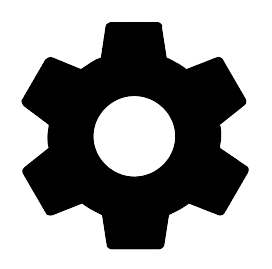
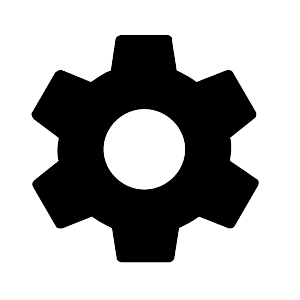
Header for desktop - finished

diff --git a/styles.css b/styles.css
@@ -111,25 +111,6 @@ img {
   width: 1px;
 }
 
-/**************************** SMALL WINDOW ****************************/
-@media screen and (max-width: 899px) {
-
-  /** Fótur **/
-  
-  .footer .content {
-    padding-top: var(--footer-spacing);
-    padding-bottom: var(--spacing);
-    display: flex;
-    flex-wrap: wrap; 
-  }
-
-  .footer .disclaimer {
-    border-top: var(--border-small) solid var(--color-light-brown);
-    max-width: 100%;
-    margin: 0 auto;
-  }
-}
-  
 /* Takki */
 
 /* .button {
@@ -228,45 +209,60 @@ img {
 
 .navigation {
   display: flex;
-  justify-content: center;
+  justify-content: space-between;
   align-items: center;
-  padding: var(--spacing);
   width: 100%;
-}
-
-.navigation .cog-image {
-  justify-content: left;
-  background-image: url('Myndir/cog.png');
-  width: 30px !important;
-  height: 30px !important;
-  background-size: contain;
+  padding: 0.5em;
 }
 
 .navigation ul {
   display: flex;
-  justify-content: center;
+  justify-content: space-around;
   align-items: center;
-  gap: var(--spacing);
-  padding-left: var(--spacing);
-  padding-right: var(--spacing);
+  white-space: nowrap;
   width: 100%;
+  padding-left: 10%;
+  padding-right: 5%;
   max-width: var(--width-offset);
   list-style: none;
 }
 
-.navigation .taeknibudin {
-  /* margin-right: auto; */
-  font-size: 1.8em;
-  padding-left: 0.3em;
-  list-style: none;
+.navigation .cog-image {
+  background-image: url('Myndir/cog.png');
+  background-repeat: no-repeat;
+  width: 40px !important;
+  height: 40px !important;
+  background-size: contain;
 }
 
 .navigation .cart-image {
-  justify-content: right;
   background-image: url('Myndir/cart.png');
-  width: 30px !important;
-  height: 30px !important;
+  background-repeat: no-repeat;
+  width: 40px !important;
+  height: 40px !important;
   background-size: contain;
+  margin-right: 0;
+}
+
+.navigation ul a {
+  text-decoration: none;
+}
+
+.navigation .taeknibudin {
+  margin-right: auto;
+  font-size: 2em;
+  margin-left: 0.3em;
+  list-style: none;
+}
+
+.taeknibudin a {
+  text-decoration: none !important;
+}
+
+input {
+  height: 2.2em;
+  width: 50%;
+  box-sizing: border-box;
 }
 
 /** Meginmál **/
@@ -288,7 +284,26 @@ img {
   color: var(--color-white);
 }
 
+/* SMALL SCREEN FOOTER */
+@media screen and (max-width: 899px) {
+  
+  .footer .content {
+    padding-top: var(--footer-spacing);
+    padding-bottom: var(--spacing);
+    display: flex;
+    flex-wrap: wrap; 
+  }
+
+  .footer .disclaimer {
+    border-top: var(--border-small) solid var(--color-light-brown);
+    max-width: 100%;
+    margin: 0 auto;
+  }
+}
+
+/* LARGE SCREEN FOOTER */
 @media screen and (min-width: 900px) {
+  
   .footer .content {
     padding-top: var(--footer-spacing);
     padding-bottom: var(--spacing);

diff --git a/index.html b/index.html
@@ -17,15 +17,14 @@
             <div class="header-image-opacity">
                 <nav class="navigation">
                     <div class="cog-image"></div>
+                    <div class="taeknibudin"><a href="../index.html"><strong>Tæknibúðin</strong></a></div>
                     <ul>
-                        <li class="taeknibudin"><strong>Tæknibúðin</strong></li>
-                        <li><input type="text" placeholder="Leit eftir heiti, vörunúmeri, lýsingu o.fl."></li>
-                        <li><a href="index.html">Nýjar Vörur</a></li>
-                        <li><a href="sidur/vara.html">Tilboðs vörur</a></li>
-                        <li><a href="sidur/vorulisti.html">Allar Vörur</a></li>
-                        <li><a href="sidur/pontun.html">cart</a></li>
+                        <input type="text" placeholder="Leit eftir heiti, vörunúmeri, lýsingu o.fl.">
+                        <a href="index.html">Nýjar Vörur</a>
+                        <a href="sidur/vara.html">Tilboðs vörur</a>
+                        <a href="sidur/vorulisti.html">Allar Vörur</a>
                     </ul>
-                    <div class="cart-image"></div>
+                    <div class="cart-image" href="sidur/pontun.html"></div>
                 </nav>
                 <header>
                     <h1>Tilboðsvika</h1>
